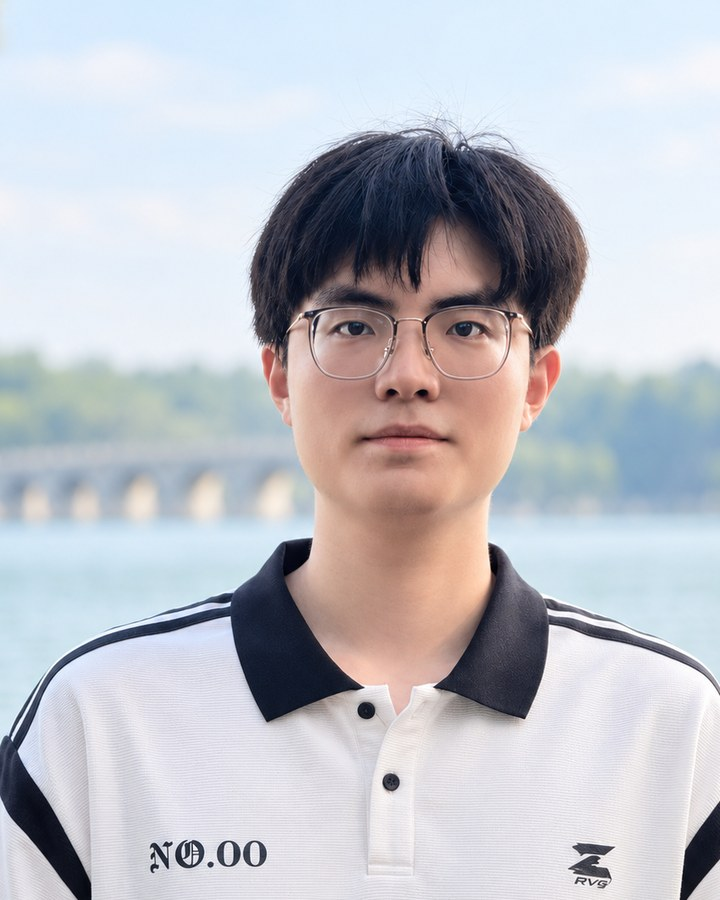
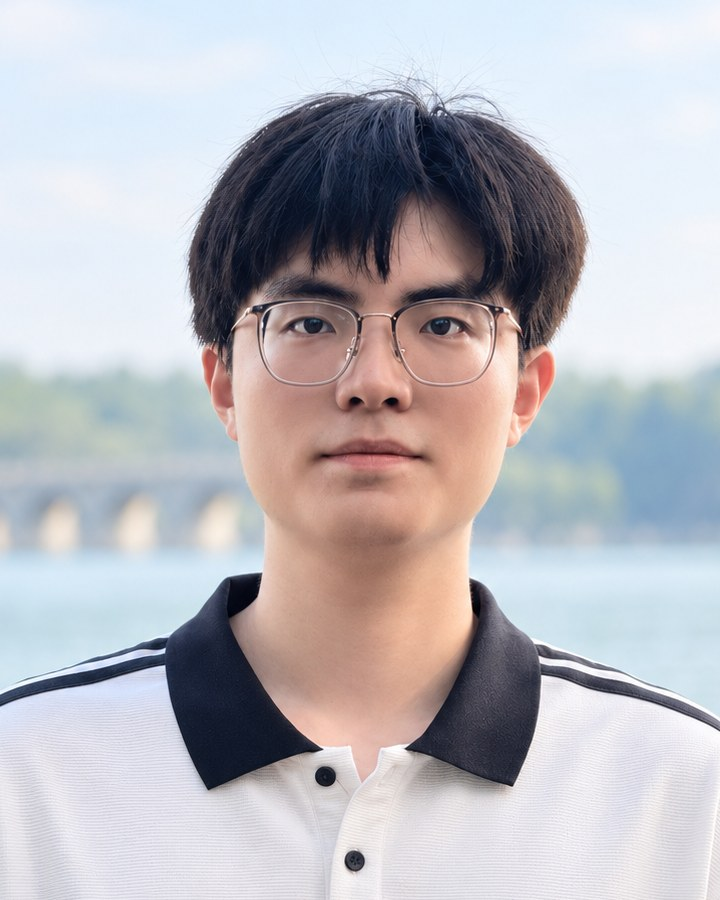
Tighter portrait crop; highlight the collaboration sentence in red

diff --git a/assets/css/global.css b/assets/css/global.css
@@ -430,3 +430,9 @@ a:hover {
 .svc-list li {
     padding: 0.1rem 0;
 }
+
+/* Emphasized phrase in About Me (e.g. the collaboration sentence) */
+.bio-highlight {
+    color: #c62828;
+    font-weight: 700;
+}
